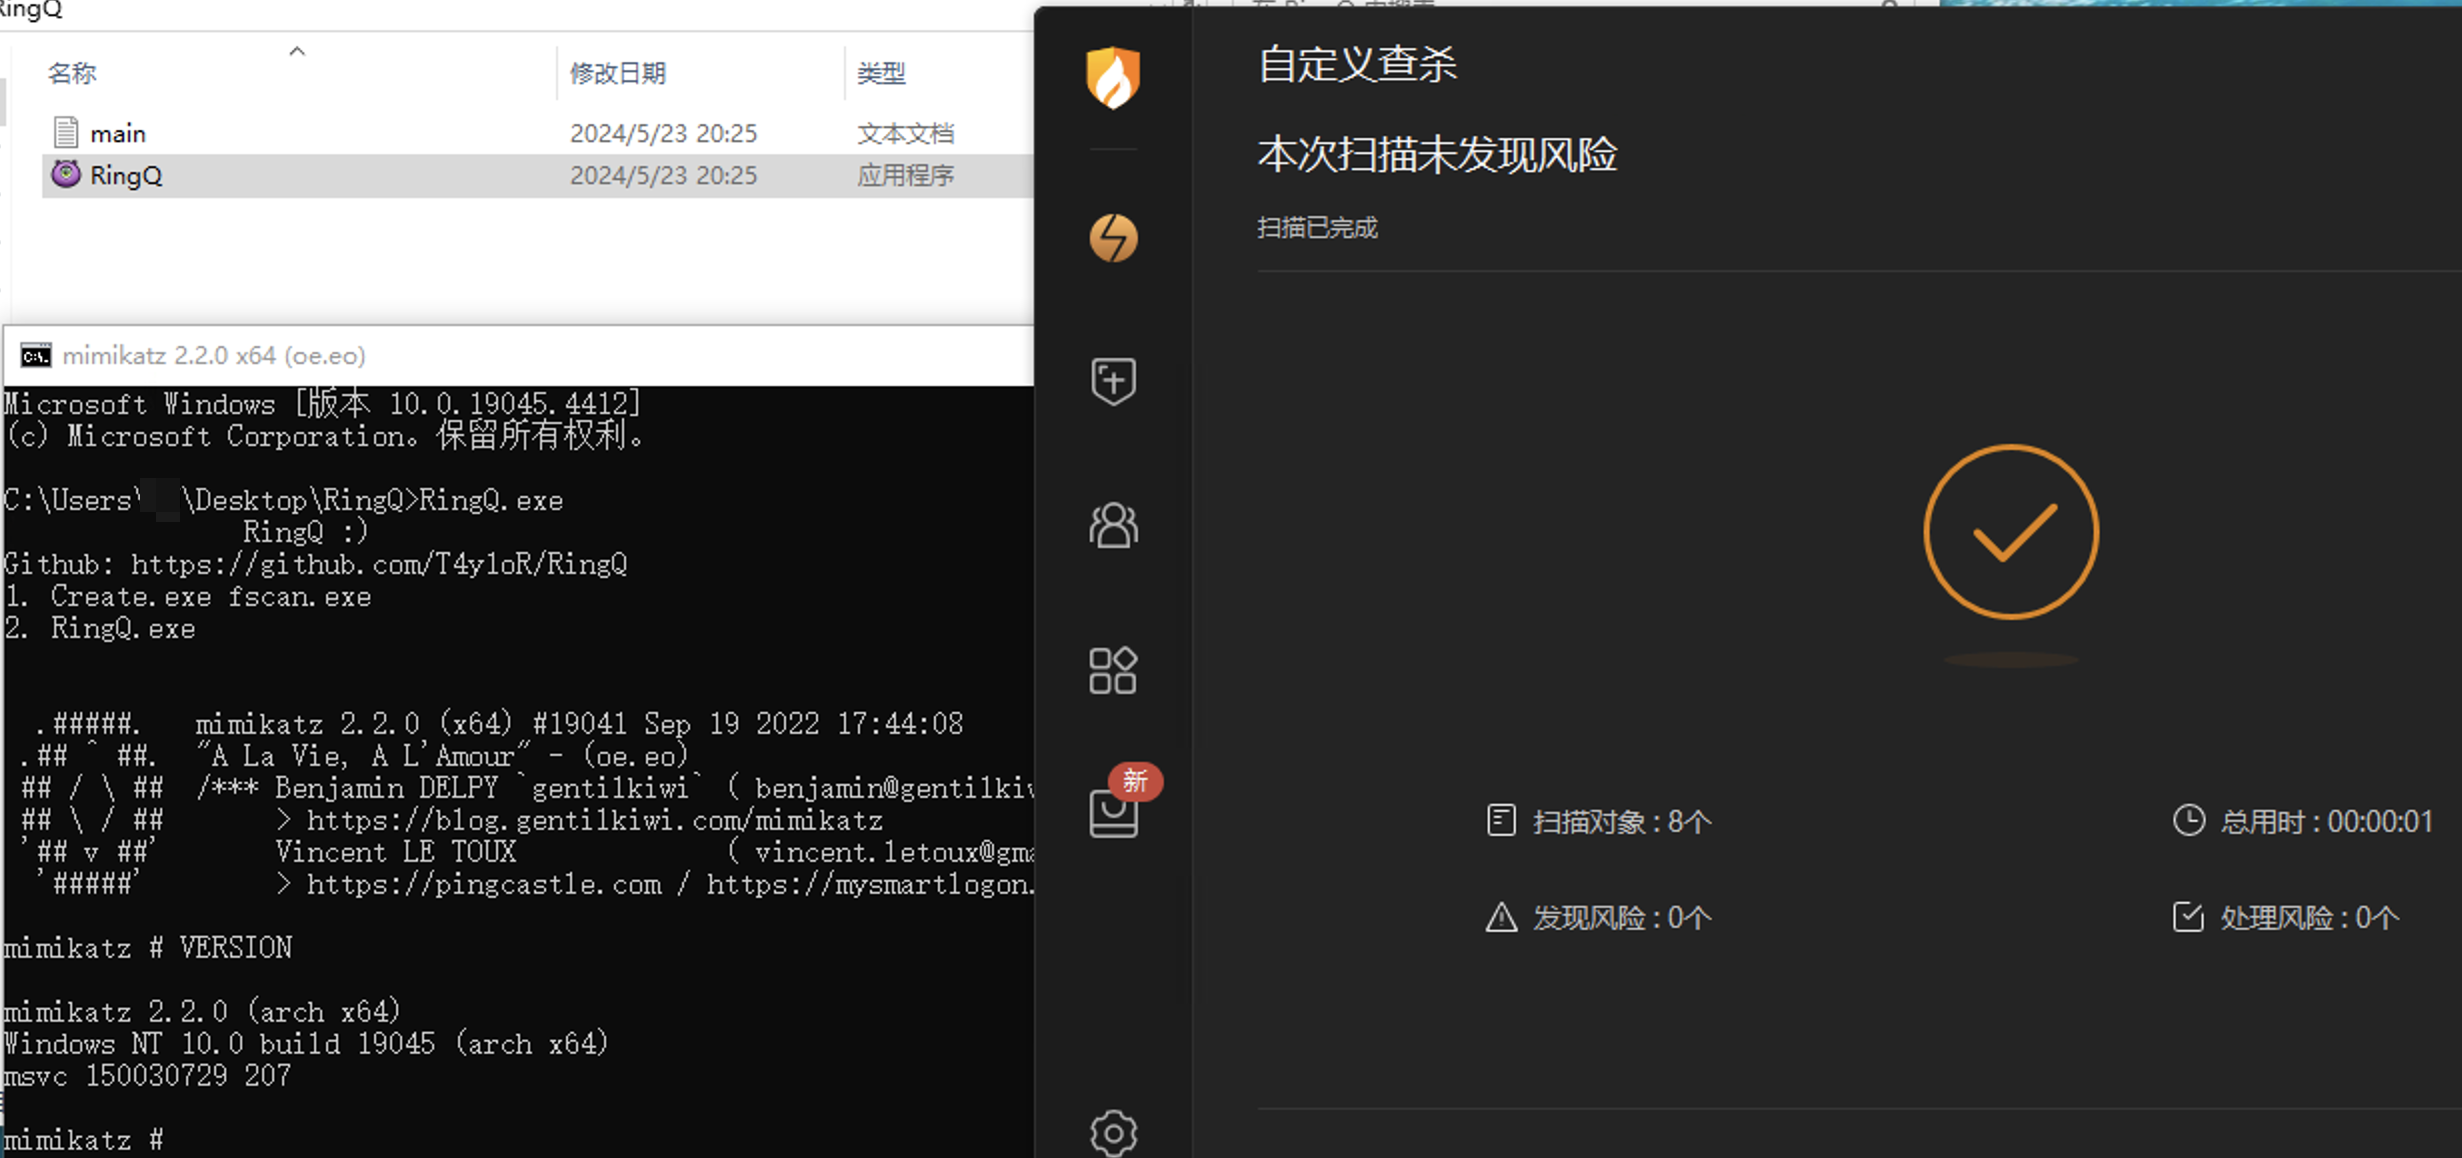
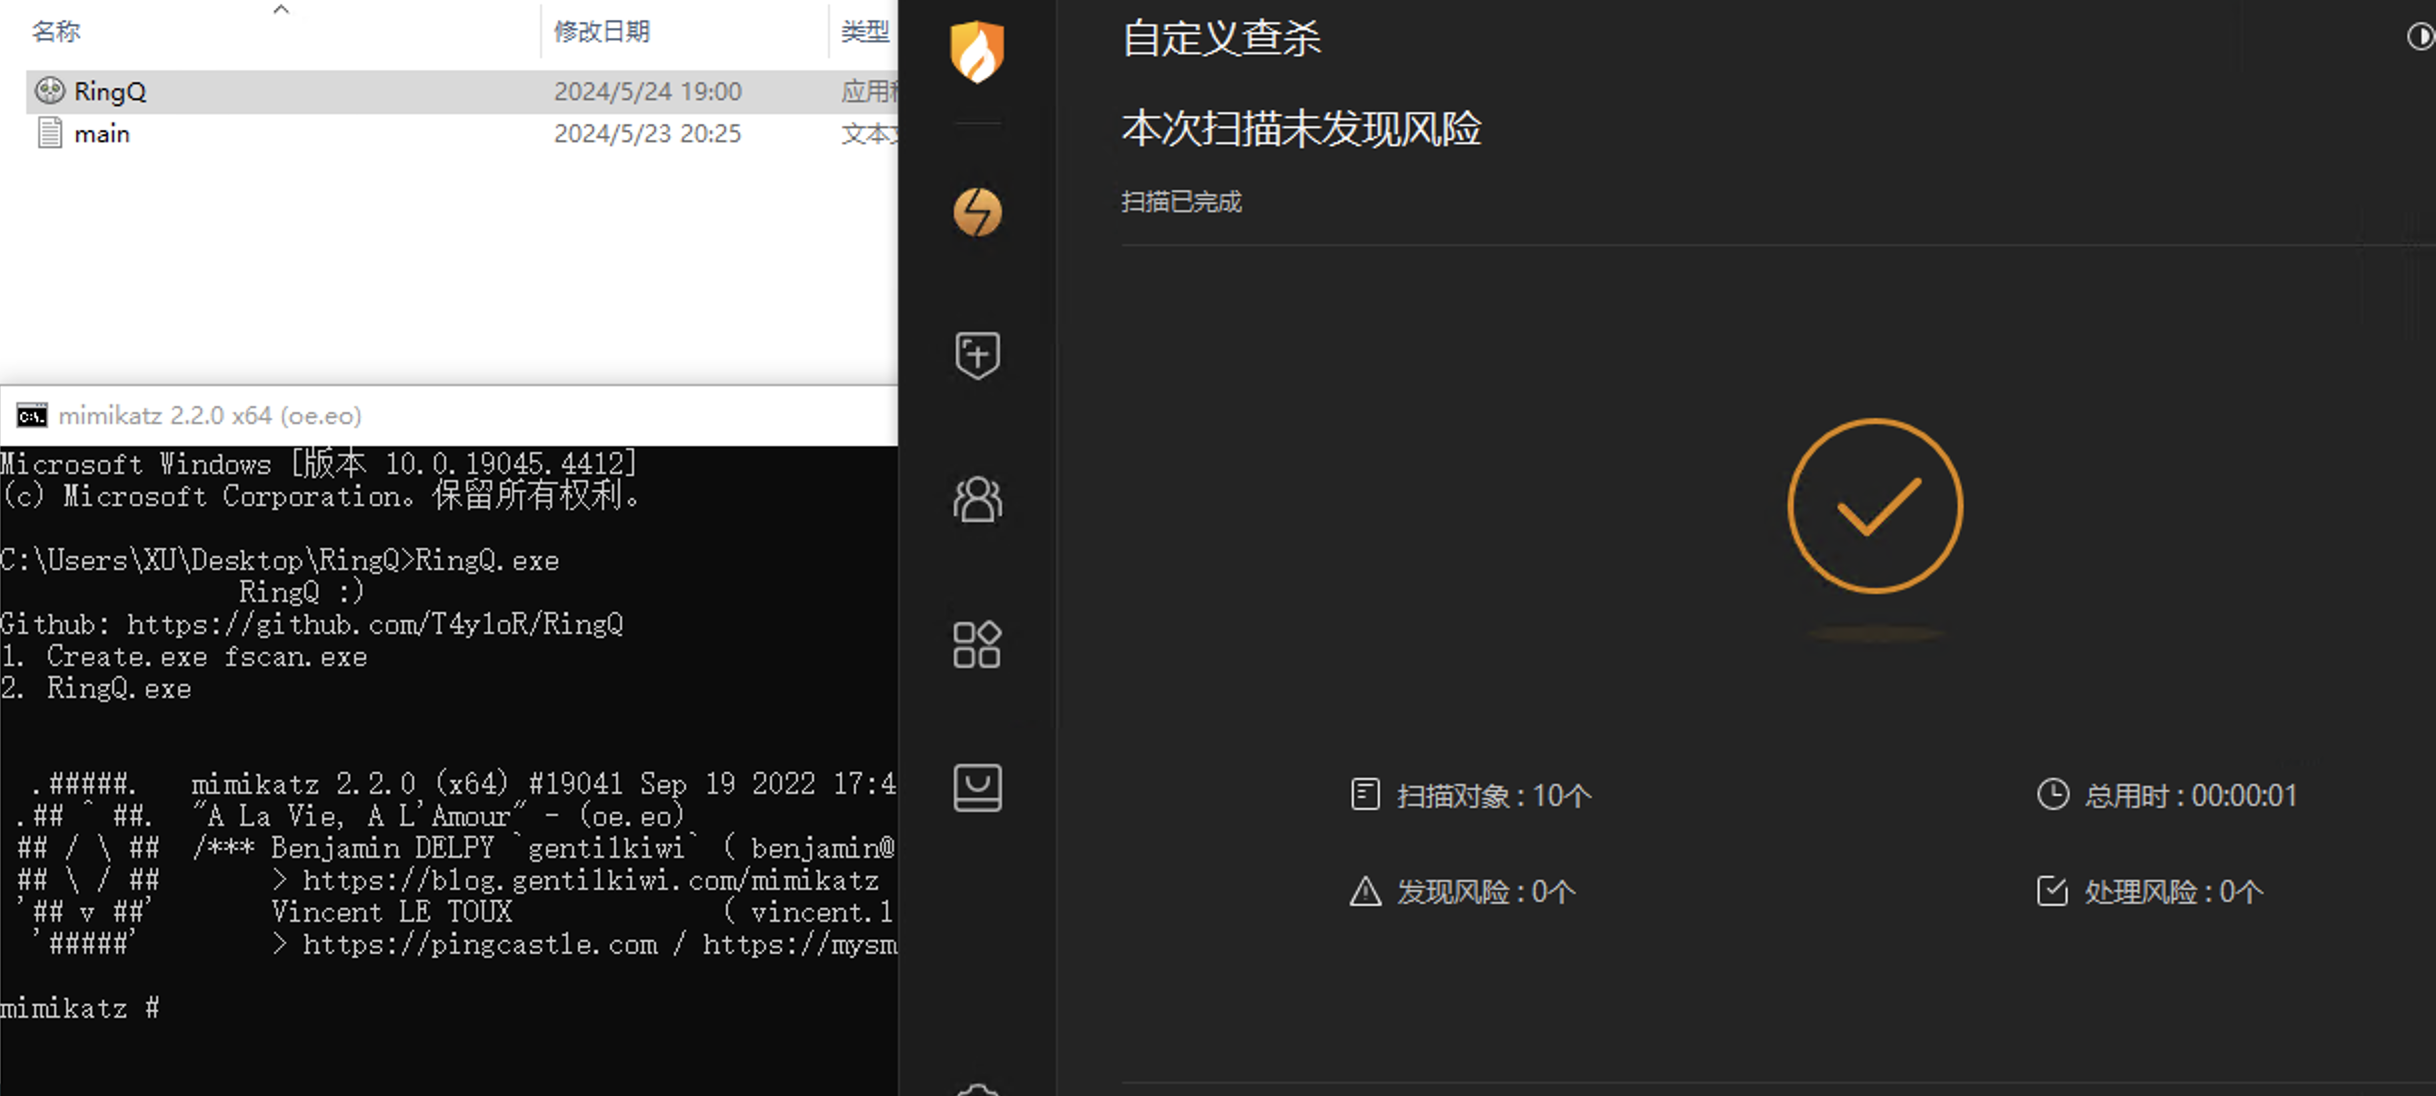
20240524

diff --git a/README.md b/README.md
@@ -44,15 +44,15 @@
 
 ### **微步**
 ![](https://github.com/T4y1oR/RingQ/blob/main/images/image-20240511162750465.png)
-### **360**（2024.05.23更新）
+### **360**（2024.05.24更新）
 ![](https://github.com/T4y1oR/RingQ/blob/main/images/360.png)
 ![](https://github.com/T4y1oR/RingQ/blob/main/images/image-20240511165253870.png)
 
-### **Windows Defender**（2024.05.23更新）
+### **Windows Defender**（2024.05.24更新）
 ![](https://github.com/T4y1oR/RingQ/blob/main/images/DF.png)
 
-### **火绒6.0**（2024.05.23更新）
-![](https://github.com/T4y1oR/RingQ/blob/main/images/huorong.png)
+### **火绒6.0**（2024.05.24更新）
+![](https://github.com/T4y1oR/RingQ/blob/main/images/hr.png)
 
 ### **卡巴斯基**（2024.05.22更新）
 ![](https://github.com/T4y1oR/RingQ/blob/main/images/kb.png)
@@ -90,6 +90,8 @@
 
 
 ### 更新日志
+
+2024.05.23 360QVM202报毒 已更新
 
 2024.05.23  360QVM202报毒 已更新，火绒报毒mimikatz 已更新
 
